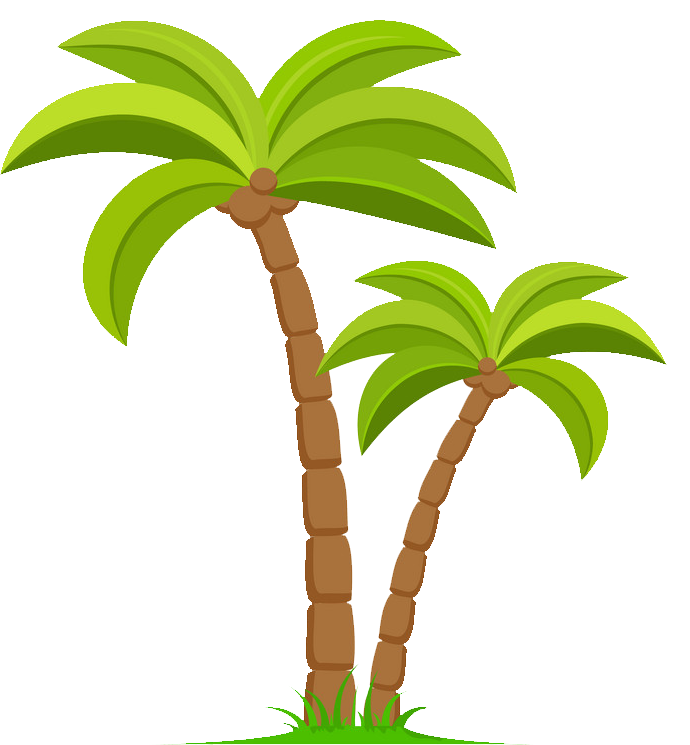
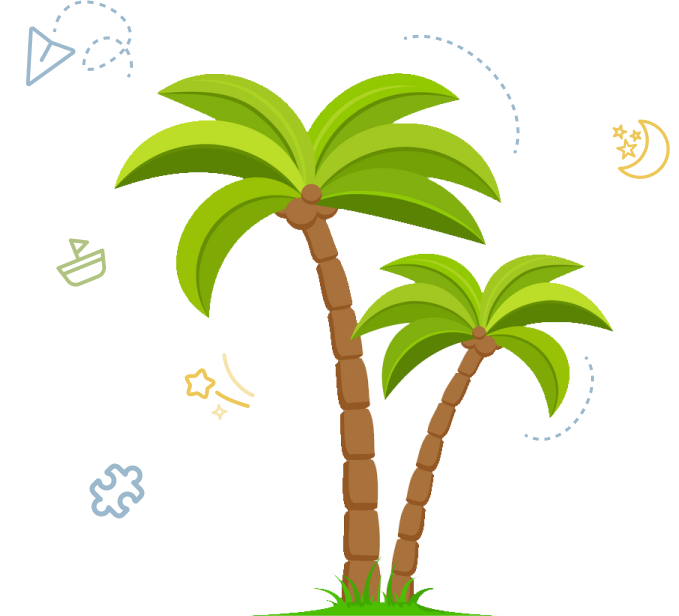
aded new svgs, updated quote section as svg

diff --git a/src/components/home/Quote.vue b/src/components/home/Quote.vue
@@ -1,7 +1,7 @@
 <script setup></script>
 <template>
     <div class="fillblob flex flex-col items-center justify-center">
-        <p class="w-80 text-center text-darkblue text-3xl font-semibold font-heading">"inteligenta plus caracterul este scopul adevaratei educatii"</p>
-        <p class="text-white text-xl font-body">- Martin Luther King JR</p>
+        <!-- <p class="w-80 text-center text-darkblue text-3xl font-semibold font-heading">"inteligenta plus caracterul este scopul adevaratei educatii"</p>
+        <p class="text-white text-xl font-body">- Martin Luther King JR</p> -->
     </div>
 </template>

diff --git a/src/style.css b/src/style.css
@@ -1,4 +1,4 @@
-@import url('https://fonts.googleapis.com/css2?family=Itim&family=Luckiest+Guy&family=Tauri&display=swap');
+@import url('https://fonts.googleapis.com/css2?family=Itim&family=Luckiest+Guy&family=Tauri&family=Baloo+2:wght@400..800&display=swap');
 
 @tailwind base;
 @tailwind components;
@@ -21,7 +21,7 @@
     background-size: cover;
     background-position: center;
     background-repeat: no-repeat;
-    aspect-ratio:900/300;
+    aspect-ratio:800/300;
   }
 
 

diff --git a/tailwind.config.js b/tailwind.config.js
@@ -13,7 +13,7 @@ module.exports = {
         'white': "#f8fafc",
       },
       fontFamily: {
-        heading: ['Tauri'],
+        heading: ['"Baloo 2"', 'sans-serif'],
         body: ['Itim']
       },
     },
